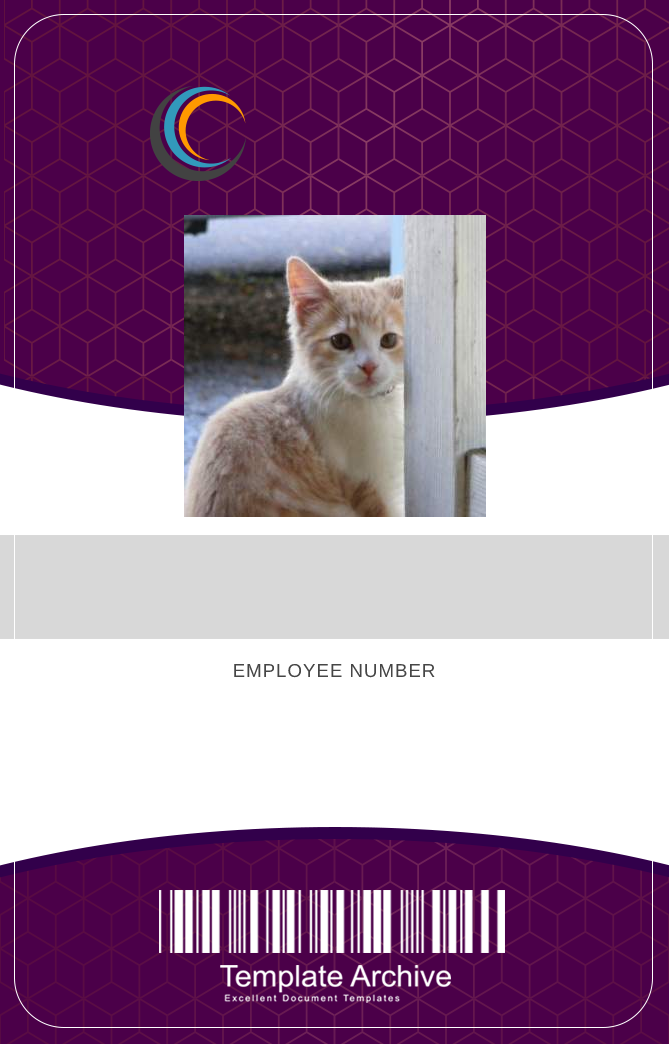
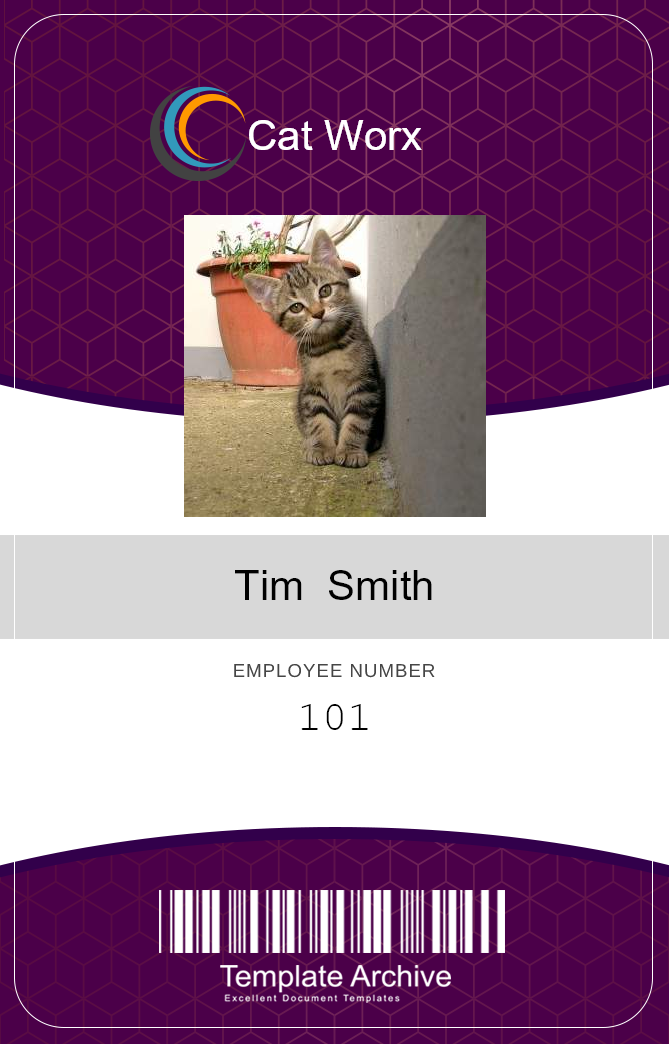
badge now prints ID, picture, and company name

diff --git a/Util.cs b/Util.cs
@@ -72,10 +72,6 @@ namespace CatWorx.BadgeMaker
                     canvas.DrawImage(background, new SKRect(0, 0, BADGE_WIDTH, BADGE_HEIGHT));
                     canvas.DrawImage(photo, new SKRect(PHOTO_LEFT_X, PHOTO_TOP_Y, PHOTO_RIGHT_X, PHOTO_BOTTOM_Y));
 
-                    SKImage finalImage = SKImage.FromBitmap(badge);
-                    SKData data = finalImage.Encode();
-                    data.SaveTo(File.OpenWrite("data/employeeBadge.png"));
-
                     employees[i].GetCompanyName();
 
                     SKPaint paint = new SKPaint();
@@ -92,6 +88,15 @@ namespace CatWorx.BadgeMaker
 
                     // Employee name
                     canvas.DrawText(employees[i].GetFullName(), BADGE_WIDTH / 2f, EMPLOYEE_NAME_Y, paint);
+
+                    paint.Typeface = SKTypeface.FromFamilyName("Courier New");
+
+                    canvas.DrawText(employees[i].GetId().ToString(), BADGE_WIDTH / 2f, EMPLOYEE_ID_Y, paint);
+
+                    SKImage finalImage = SKImage.FromBitmap(badge);
+                    SKData data = finalImage.Encode();
+                    data.SaveTo(File.OpenWrite("data/employeeBadge.png"));
+                    
                 }
             }
         }
